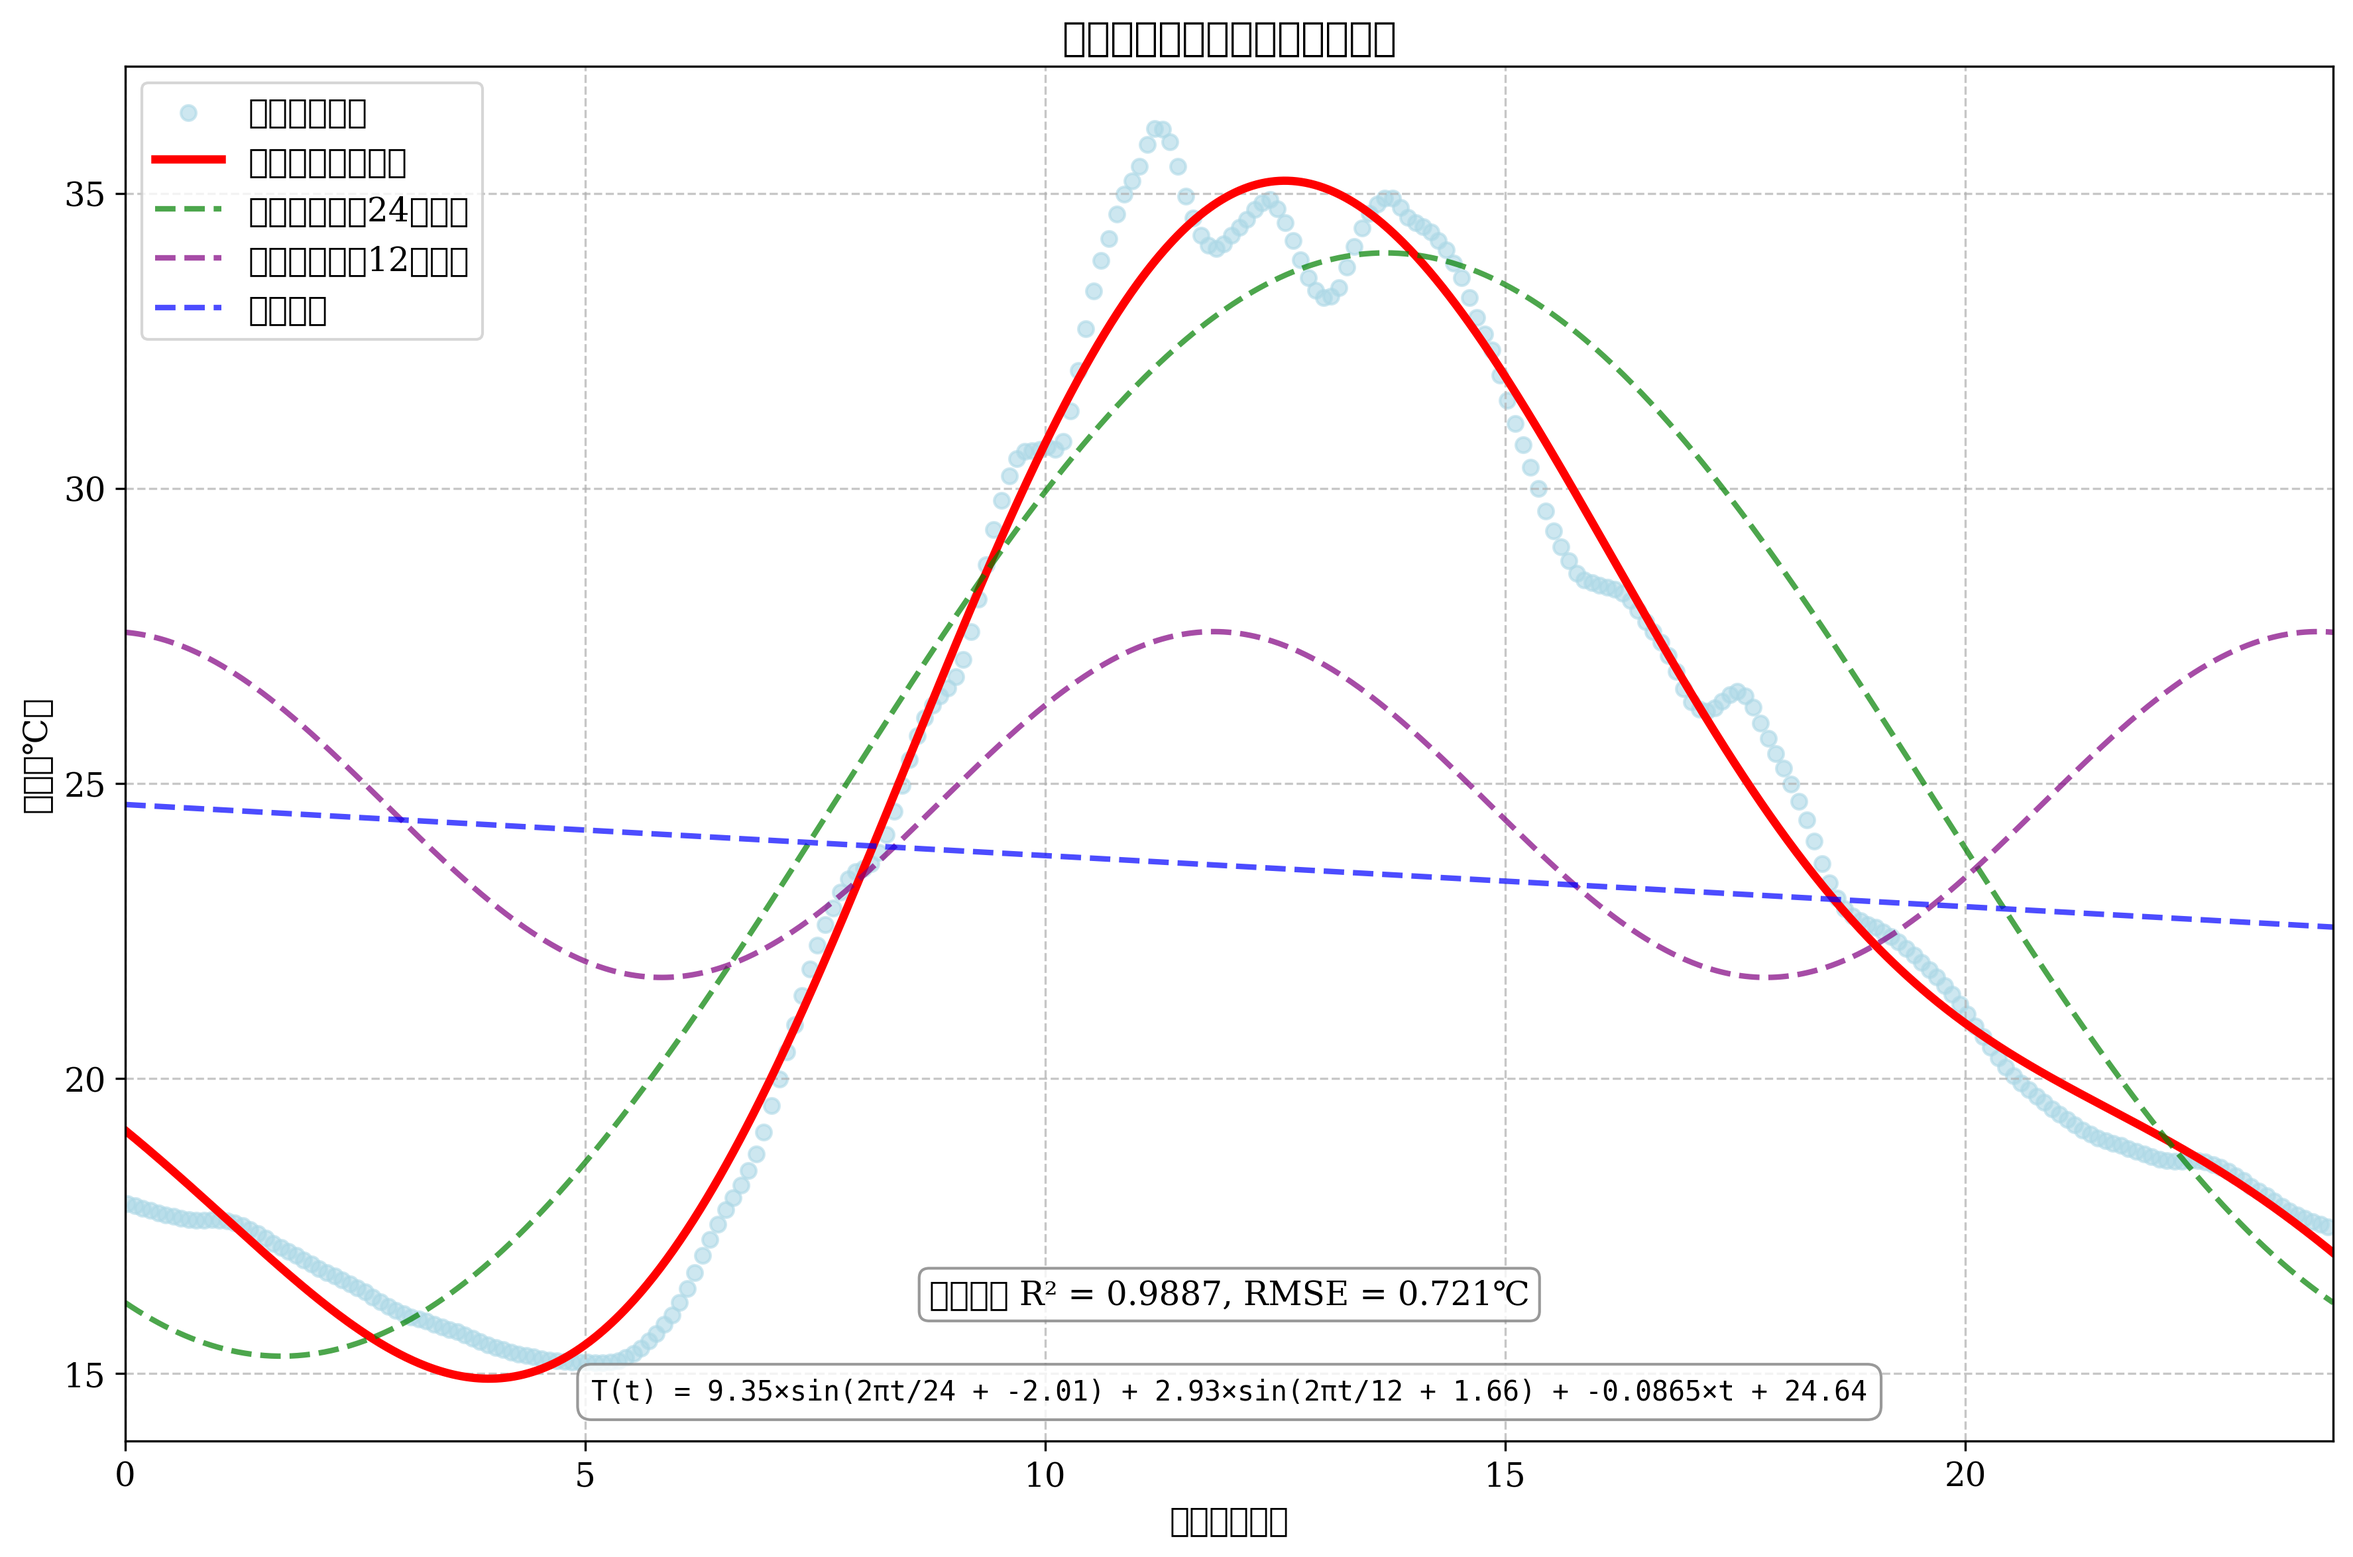
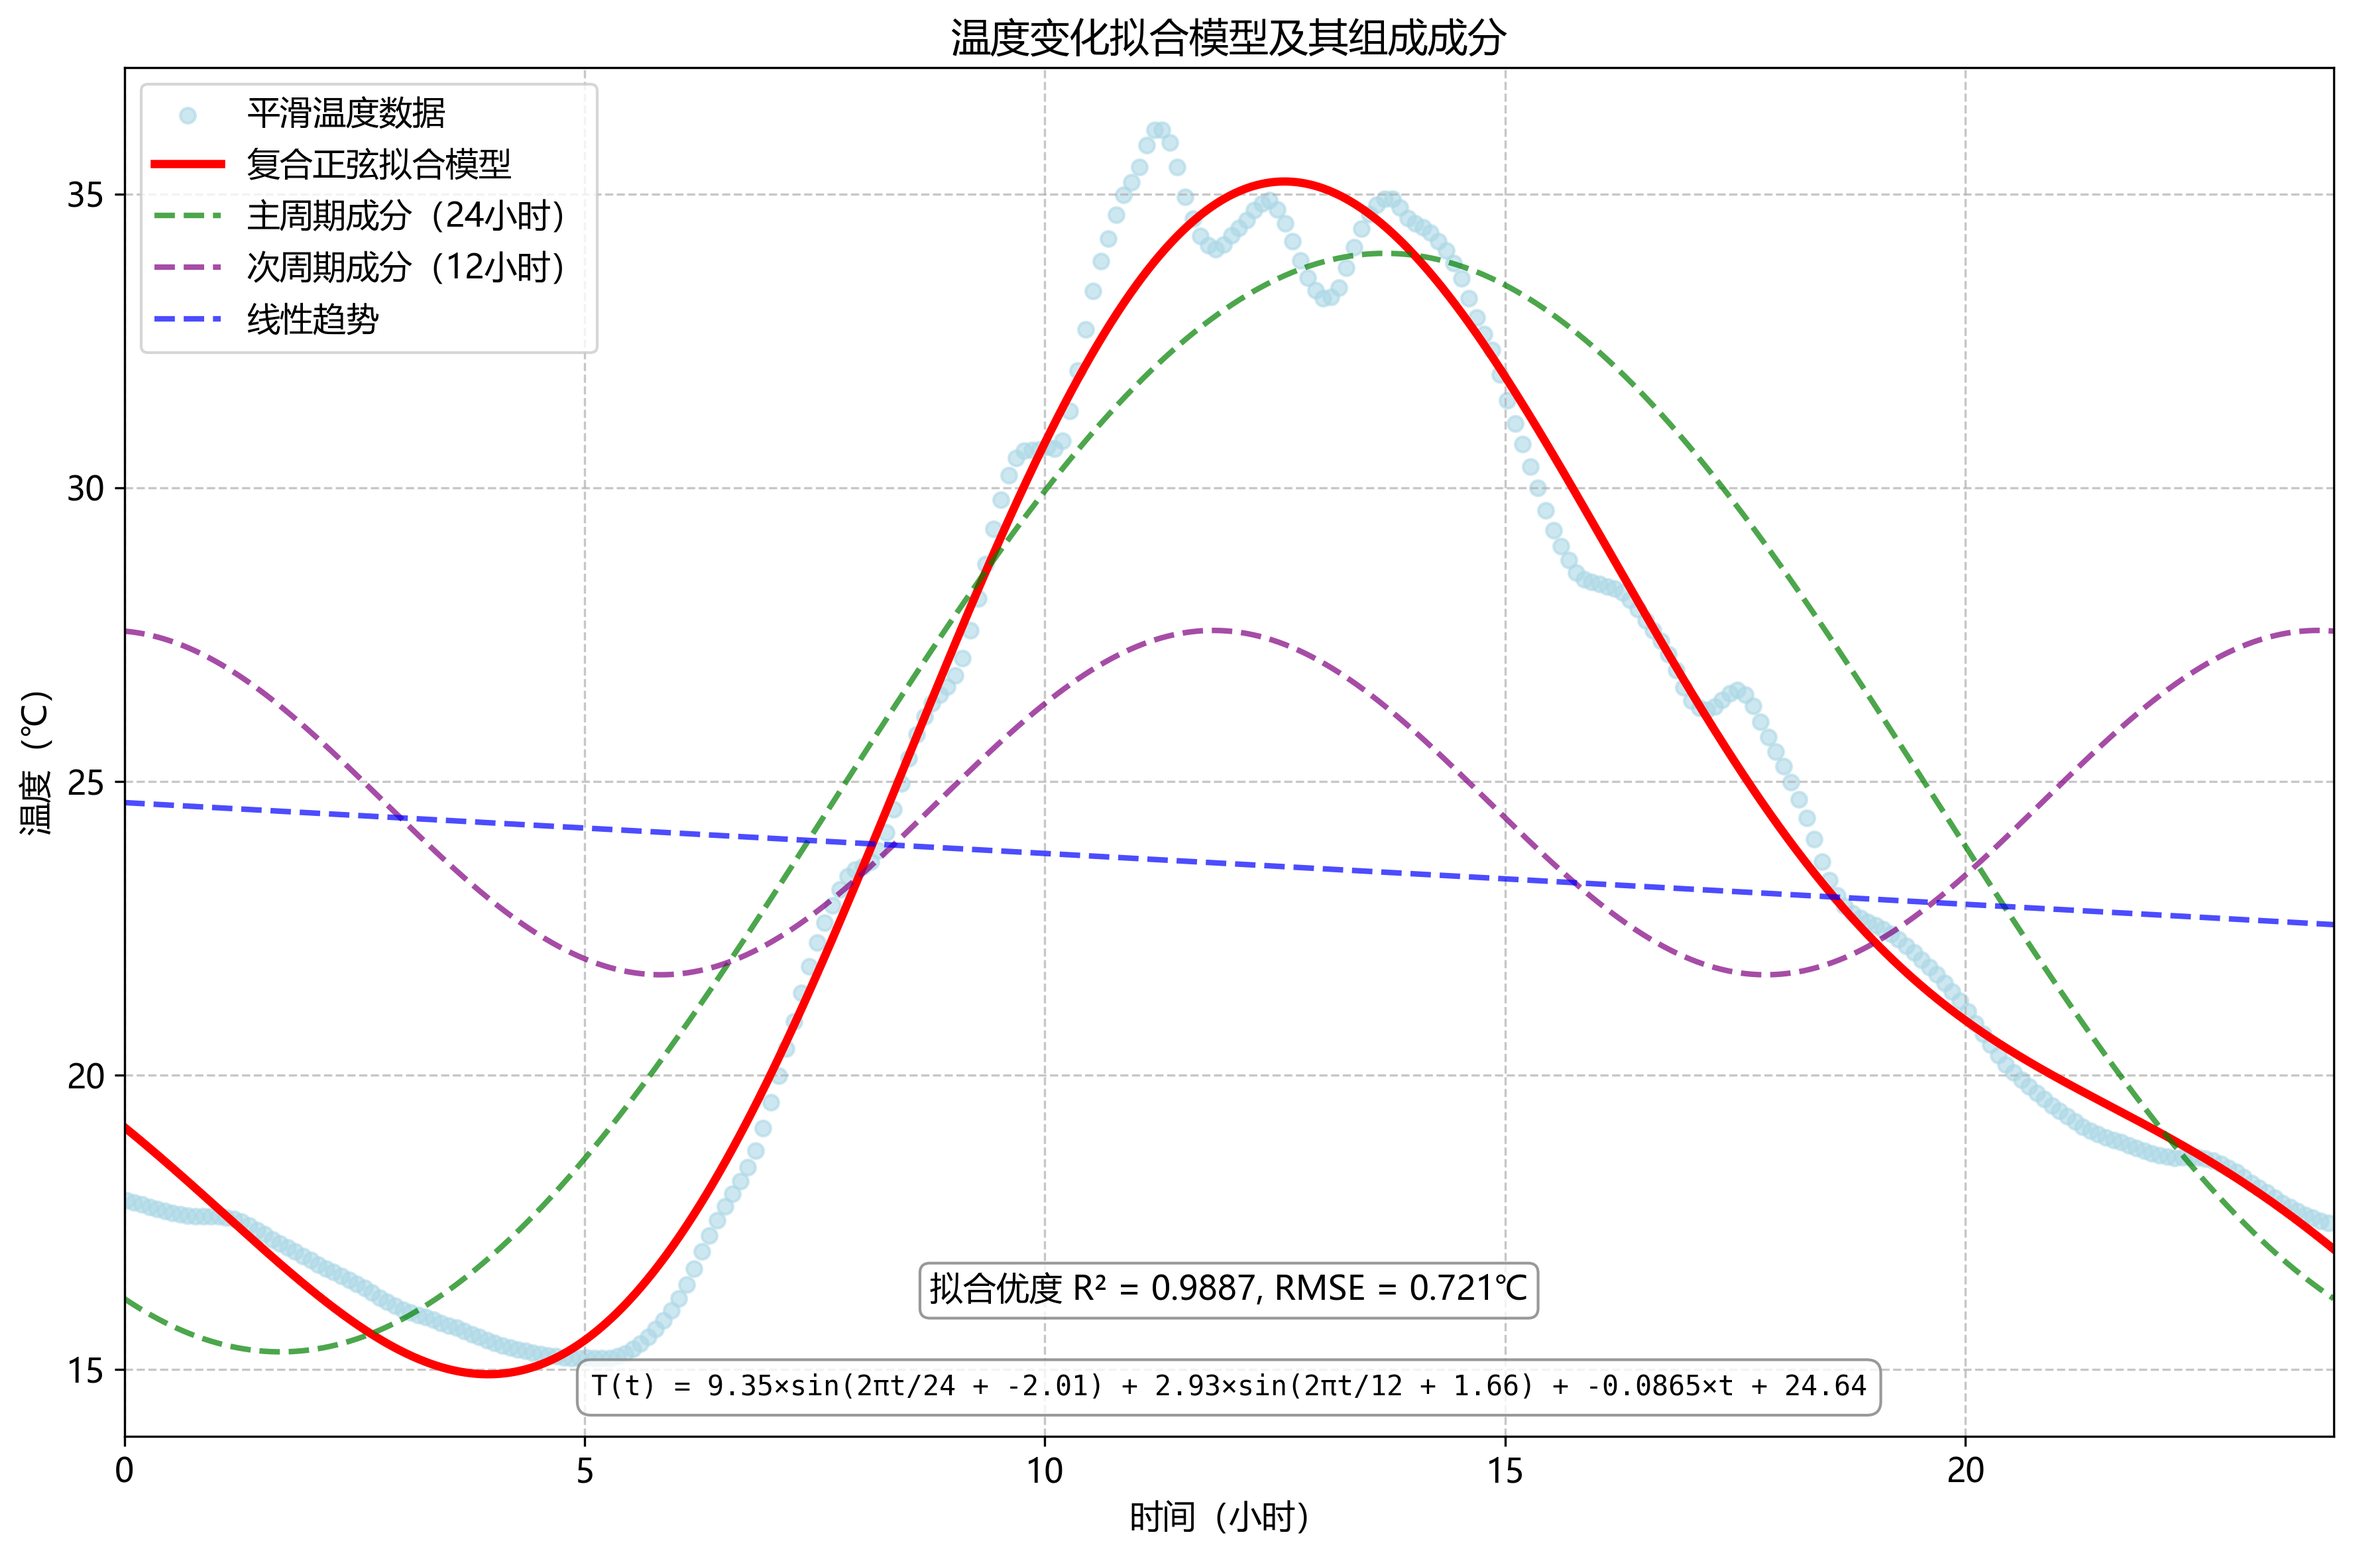
Chinese fonts display

diff --git a/第一题第一问/The variation of temperature.py b/第一题第一问/The variation of temperature.py
@@ -9,7 +9,7 @@ import os
 import matplotlib
 import platform
 import warnings
-from matplotlib.font_manager import fontManager
+from matplotlib.font_manager import fontManager, FontProperties
 
 # 添加项目根目录到路径
 sys.path.append(os.path.dirname(os.path.dirname(os.path.abspath(__file__))))
@@ -20,29 +20,75 @@ from config import DATA_PATHS, VISUALIZATION_PATHS, OUTPUT_PATHS
 
 def setup_chinese_fonts():
     """设置中文字体和数学公式渲染"""
+    
+    # 清除matplotlib的字体缓存并重置
+    matplotlib.rcdefaults()
+    plt.rcdefaults()
+    
+    # 获取系统类型并设置字体优先级
+    system = platform.system()
+    if system == "Windows":
+        font_candidates = [
+            'Microsoft YaHei UI',
+            'Microsoft YaHei', 
+            'SimHei', 
+            'SimSun',
+            'FangSong',
+            'KaiTi'
+        ]
+    elif system == "Darwin":  # macOS
+        font_candidates = [
+            'PingFang SC',
+            'Arial Unicode MS', 
+            'Heiti TC', 
+            'STHeiti'
+        ]
+    else:  # Linux
+        font_candidates = [
+            'WenQuanYi Micro Hei',
+            'WenQuanYi Zen Hei', 
+            'Droid Sans Fallback'
+        ]
+    
+    # 查找可用的中文字体
+    available_fonts = []
+    for font_name in font_candidates:
+        # 检查字体是否存在
+        font_files = [f for f in fontManager.ttflist if font_name in f.name]
+        if font_files:
+            available_fonts.append(font_name)
+    
+    # 设置字体
+    if available_fonts:
+        chosen_font = available_fonts[0]
+        print(f"使用字体: {chosen_font}")
+        
+        # 设置matplotlib全局字体参数
+        plt.rcParams['font.sans-serif'] = [chosen_font] + available_fonts + ['DejaVu Sans']
+        plt.rcParams['font.family'] = 'sans-serif'
+        
+        # 同步设置matplotlib后端参数
+        matplotlib.rcParams['font.sans-serif'] = [chosen_font] + available_fonts + ['DejaVu Sans'] 
+        matplotlib.rcParams['font.family'] = 'sans-serif'
+        
+    else:
+        print("警告: 未找到中文字体，使用默认字体")
+        plt.rcParams['font.sans-serif'] = ['DejaVu Sans']
+        matplotlib.rcParams['font.sans-serif'] = ['DejaVu Sans']
+    
+    # 设置其他字体参数
     plt.rcParams['axes.unicode_minus'] = False  # 正确显示负号
     plt.rcParams['font.size'] = 12
     
-    # 优先使用支持中文的字体
-    system = platform.system()
-    if system == "Windows":
-        fonts = ['Microsoft YaHei', 'SimHei', 'SimSun', 'Arial Unicode MS']
-    elif system == "Darwin":  # macOS
-        fonts = ['Arial Unicode MS', 'Heiti TC', 'STHeiti', 'PingFang SC']
-    else:  # Linux
-        fonts = ['WenQuanYi Micro Hei', 'Droid Sans Fallback']
-    
-    available_fonts = [f for f in fonts if f in [font_name.name for font_name in fontManager.ttflist]]
-    
-    if available_fonts:
-        plt.rcParams['font.sans-serif'] = available_fonts
-        print(f"使用字体: {available_fonts[0]}")
-    else:
-        plt.rcParams['font.sans-serif'] = ['DejaVu Sans']
-        print("警告: 未找到中文字体，使用默认字体")
-    
-    plt.rcParams['mathtext.fontset'] = 'stix'
+    # 数学公式字体设置
+    plt.rcParams['mathtext.fontset'] = 'dejavusans'  # 使用兼容性更好的字体
     plt.rcParams['mathtext.default'] = 'regular'
+    
+    # 同步到matplotlib全局设置
+    matplotlib.rcParams['axes.unicode_minus'] = False
+    matplotlib.rcParams['font.size'] = 12
+    matplotlib.rcParams['mathtext.fontset'] = 'dejavusans'
+    matplotlib.rcParams['mathtext.default'] = 'regular'
     
     # 测试中文显示
     try:
@@ -55,14 +101,8 @@ def setup_chinese_fonts():
     
     return plt.rcParams['font.sans-serif'][0]
 
-# 设置全局字体参数
-font_config = {
-    'family': 'serif',
-    'weight': 'normal', 
-    'size': 12
-}
-
-plt.rc('font', **font_config)
+# 初始化字体设置
+current_font = setup_chinese_fonts()
 
 # ==================== 数据处理函数 ====================
 
@@ -225,7 +265,12 @@ def analyze_temperature_periodicity(temperature_data, sampling_interval=5):
 
 def create_temperature_time_plot(df, model_params=None, save_path=None):
     """创建温度时序图"""
+    # 抑制字体警告
+    warnings.filterwarnings('ignore', category=UserWarning, module='matplotlib')
+    
+    # 确保字体设置生效
     setup_chinese_fonts()
+    
     plt.figure(figsize=(14, 8))
     plt.plot(df['分钟']/60, df['温度'], 'o', markersize=3, alpha=0.3, label='原始温度数据', color='lightblue')
     plt.plot(df['分钟']/60, df['温度_平滑'], '-', linewidth=2, label='平滑温度数据', color='blue')
@@ -273,7 +318,9 @@ def create_temperature_time_plot(df, model_params=None, save_path=None):
 
 def create_temperature_distribution_plot(temperature_data, save_path=None):
     """创建温度分布图"""
+    warnings.filterwarnings('ignore', category=UserWarning, module='matplotlib')
     setup_chinese_fonts()
+    
     plt.figure(figsize=(10, 6))
     n, bins, patches = plt.hist(temperature_data, bins=20, color='skyblue', edgecolor='black', alpha=0.7, density=True)
     
@@ -301,7 +348,9 @@ def create_temperature_distribution_plot(temperature_data, save_path=None):
 
 def create_model_components_plot(df, model_params, model_metrics, save_path=None):
     """创建模型组件分解图"""
+    warnings.filterwarnings('ignore', category=UserWarning, module='matplotlib')
     setup_chinese_fonts()
+    
     plt.figure(figsize=(12, 8))
     plt.scatter(df['分钟']/60, df['温度_平滑'], s=30, alpha=0.6, label='平滑温度数据', color='lightblue')
     
@@ -357,9 +406,11 @@ def main():
     print("温室温度变化分析程序")
     print("=" * 50)
     
+    # 抑制matplotlib字体警告
+    warnings.filterwarnings('ignore', category=UserWarning, module='matplotlib')
+    
     # 1. 数据读取与预处理
     print("\n1. 数据读取与预处理...")
-    setup_chinese_fonts()
     
     try:
         temperature_file = DATA_PATHS['temperature_data']
